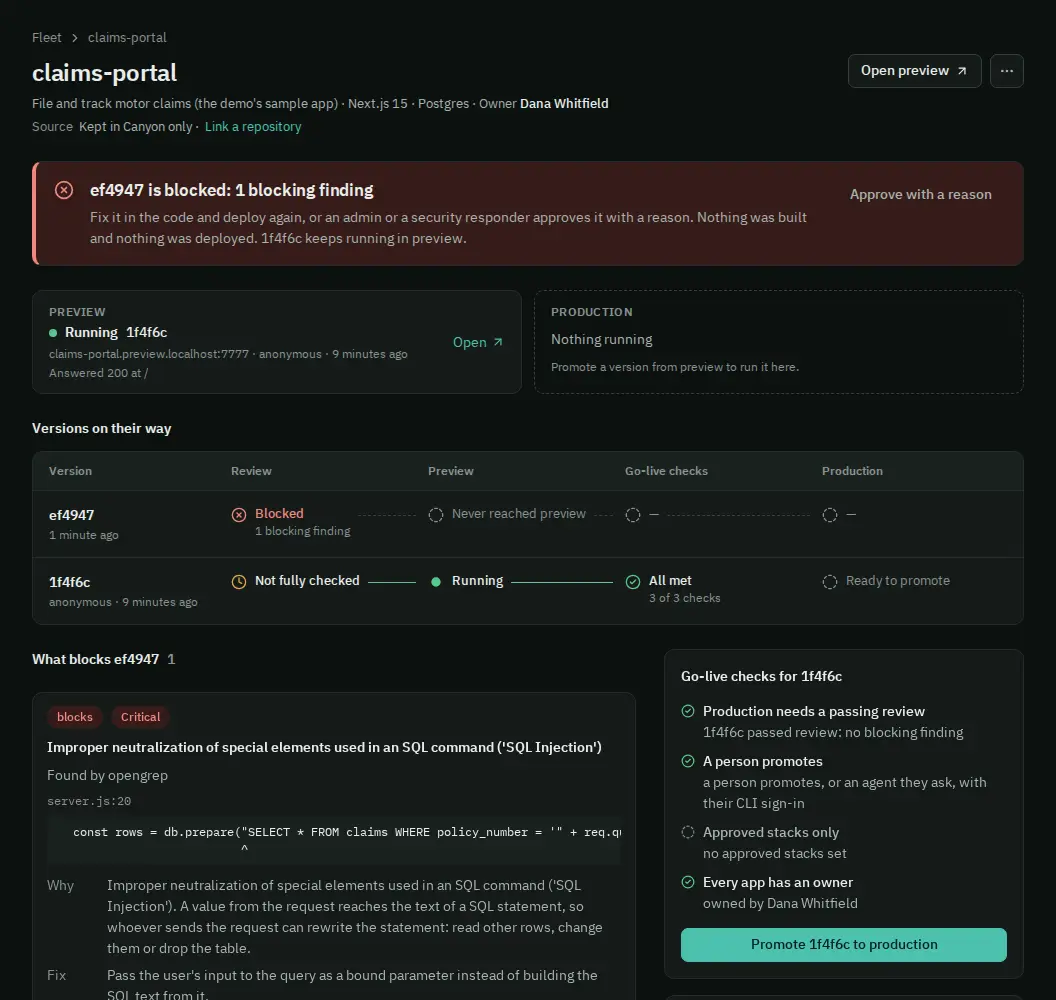
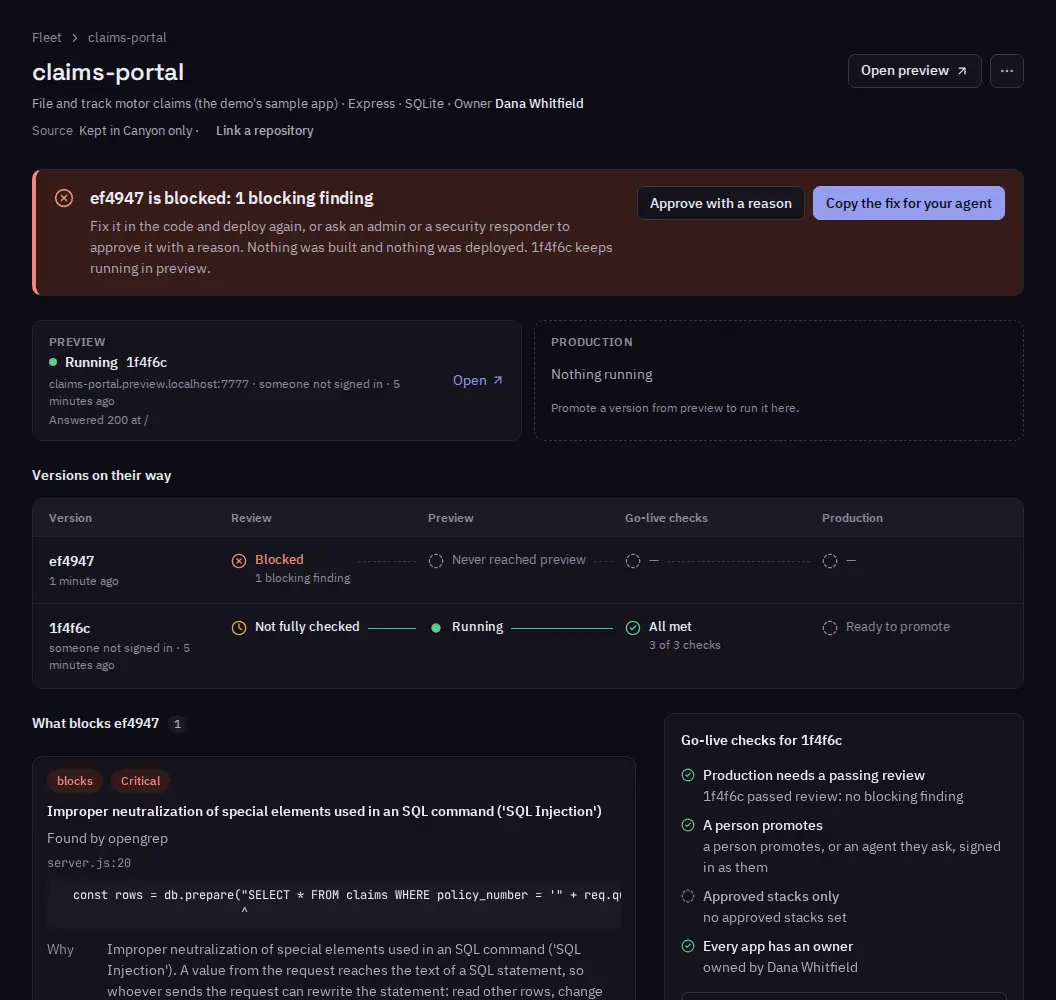
docs: the dashboard screenshots match v0.11.1 (#162)

diff --git a/docs/src/content/docs/org/dashboard.md b/docs/src/content/docs/org/dashboard.md
@@ -13,8 +13,8 @@ becomes a bar across the top with a menu button.
 
 The fleet is the list of every app in your org.
 
-<a class="dark:sl-hidden" href="/screens/fleet-light.webp"><img src="/screens/fleet-light.webp" alt="The fleet of the demo org Meridian: four counts, a Needs attention list with a leaked secret, two blocked apps and an app with no owner, and claims-portal's details panel open beside the list." width="1056" loading="lazy"></a>
-<a class="light:sl-hidden" href="/screens/fleet-dark.webp"><img src="/screens/fleet-dark.webp" alt="The fleet of the demo org Meridian: four counts, a Needs attention list with a leaked secret, two blocked apps and an app with no owner, and claims-portal's details panel open beside the list." width="1056" loading="lazy"></a>
+<a class="dark:sl-hidden" href="/screens/fleet-light.webp"><img src="/screens/fleet-light.webp" alt="The fleet of the demo org Meridian: four counts, a line saying to start with claims-portal, a Needs attention list with a leaked secret, a blocked app, and an app never reviewed and with no owner, and claims-portal's details panel open beside the list." width="1056" loading="lazy"></a>
+<a class="light:sl-hidden" href="/screens/fleet-dark.webp"><img src="/screens/fleet-dark.webp" alt="The fleet of the demo org Meridian: four counts, a line saying to start with claims-portal, a Needs attention list with a leaked secret, a blocked app, and an app never reviewed and with no owner, and claims-portal's details panel open beside the list." width="1056" loading="lazy"></a>
 
 An admin's counts and lists cover the whole org; a member's cover their own apps, and their list is
 called "Needs you" rather than "Needs attention". The list can say:
@@ -31,9 +31,10 @@ called "Needs you" rather than "Needs attention". The list can say:
 destination [refused on its outbound allowlist](/org/outbound/#on-an-apps-page) that nobody has allowed or dismissed.
 
 **The list.** Where people sign in, an Access column says who can open each app, and a filter picks
-by it. "Filter" also has "Only apps that need you". Security responders and admins see **Stop
-production** on each app's row, and **Lift the hold** on an app whose production is held
-([Stopping production](/org/who-can-do-what/#stopping-production)).
+by it. "Filter" also has "Only apps that need you". In an app's details
+panel, security responders and admins can stop its production, and admins can lift its hold
+([Stopping production](/org/who-can-do-what/#stopping-production)). For an app outside their teams, a
+responder does either on the app's row.
 
 **The details panel.** Click a row to open its panel beside the list. When something blocks the app,
 "Copy for your agent" copies the problem for a coding agent. "All activity" opens its audit trail. On
@@ -45,11 +46,12 @@ from the last 24 hours first. "Open audit" opens the [audit trail](/org/audit-tr
 
 ## An app's page
 
-<a class="dark:sl-hidden" href="/screens/app-blocked-light.webp"><img src="/screens/app-blocked-light.webp" alt="claims-portal's page: the newest version is blocked by one finding, the previous version keeps running in preview, and the go-live checks for that version all pass." width="1056" loading="lazy"></a>
-<a class="light:sl-hidden" href="/screens/app-blocked-dark.webp"><img src="/screens/app-blocked-dark.webp" alt="claims-portal's page: the newest version is blocked by one finding, the previous version keeps running in preview, and the go-live checks for that version all pass." width="1056" loading="lazy"></a>
+<a class="dark:sl-hidden" href="/screens/app-blocked-light.webp"><img src="/screens/app-blocked-light.webp" alt="claims-portal's page: its headline says the newest version is blocked by one finding, with the fix to copy for an agent. The previous version keeps running in preview, and its three go-live checks are met." width="1056" loading="lazy"></a>
+<a class="light:sl-hidden" href="/screens/app-blocked-dark.webp"><img src="/screens/app-blocked-dark.webp" alt="claims-portal's page: its headline says the newest version is blocked by one finding, with the fix to copy for an agent. The previous version keeps running in preview, and its three go-live checks are met." width="1056" loading="lazy"></a>
 
 The "⋯" button ("More actions") holds "Take preview offline", "Take production offline" and, for
-the app's owners and admins, "Rename…" and "Delete app…". Further down the page:
+the app's owners and admins, "Rename…" and "Delete app…". For security responders and admins it also
+holds "Stop production". Further down the page:
 
 - **Review**: what blocks comes first. What doesn't block waits behind "Doesn't block". See
   [Fix or approve a finding](/build/fix-or-approve/).

diff --git a/docs/src/content/docs/org/who-can-do-what.md b/docs/src/content/docs/org/who-can-do-what.md
@@ -1,10 +1,10 @@
 ---
 title: Who can do what
-description: Every action in Canyon, and who may take it, from a member the app isn't shared with to an admin, a security responder and a coding agent using someone's CLI sign-in.
+description: Every action in Canyon, and who may take it, from a member the app isn't shared with to an admin, a security responder and a coding agent signed in as someone.
 ---
 
 What someone may do with an app depends on their role on Canyon and their level on that app, and a
-coding agent counts as the person whose CLI sign-in it uses. [The table](#what-each-person-can-do-with-an-app)
+coding agent counts as the person it is signed in as. [The table](#what-each-person-can-do-with-an-app)
 has every action; Canyon's own settings and what only the dashboard can do follow it.
 
 ## How Canyon decides
@@ -16,12 +16,12 @@ Canyon decides what someone may do from two things:
 - **Their level on each app:** owner, contributor, read-only, or no access at all. An app's owners
   set it when they share the app ([Share an app](/build/share/)).
 
-A coding agent never has access of its own. It works through a person's CLI sign-in, and Canyon
-treats it as that person.
+A coding agent never has access of its own. It works through a person's CLI sign-in on a laptop, or
+the connection they allowed it in the cloud, and Canyon treats it as that person.
 
 ```mermaid title="Who may do what: a role on Canyon, a level on each app, and an agent that counts as its person"
 flowchart TD
-  agent["A coding agent<br>on your CLI sign-in"]
+  agent["A coding agent<br>signed in as you"]
   person["You, signed in"]:::person
   role["Your role on Canyon<br>member, responder,<br>admin"]
   level["Your level on the app<br>owner, contributor,<br>read-only, no access"]
@@ -108,7 +108,7 @@ never from the CLI, so a coding agent can't do them.
 
 A **blocking finding** is one whose rule blocks it, before preview or before production. Only an
 admin or a security responder approves one, signed in to the dashboard. Nobody approves a blocking
-finding of a deploy they started, including one a coding agent started with their CLI sign-in. An
+finding of a deploy they started, including one a coding agent started, signed in as them. An
 approval an admin or a responder makes on someone else's deploy never counts for one they started
 themselves.
 
@@ -130,7 +130,9 @@ sign-in can do it too, since it counts as them; Canyon's own automated steps, an
 deployment platform uses under [hand-off](/self-host/hand-off/), can't. There are three ways:
 
 - from the CLI: `canyon undeploy --app <app> --env prod --hold --reason "…"`;
-- in the dashboard: **Stop production** on the app's row in the fleet, the dashboard's list of apps;
+- in the dashboard: **Stop production** in the app's details panel in the fleet, the dashboard's list
+  of apps, or on the app's page, under **⋯**. For an app outside a responder's teams, it is on the
+  app's row in the fleet. Where nothing runs in production, it reads **Hold production**;
 - through the API: `POST /api/v1/projects/<app>/envs/prod/hold`, with a CLI sign-in
   ([Calling Canyon's API](/reference/api/)).
 
@@ -143,8 +145,9 @@ your platform to remove it, and the app lets nobody in within about a minute, ev
 platform's pods are still running (see
 [When an environment is stopped](/self-host/hand-off/#when-an-environment-is-stopped)).
 
-A responder or an admin lifts the hold with **Lift the hold** in the dashboard's fleet (on the app's row, or in its details pane),
-only, and can start the held version again. Nobody on the app's team (an owner or a contributor)
+A responder or an admin lifts the hold with **Lift the hold**, only in the dashboard: on the app's
+page, or in the fleet, where an admin finds it in the app's details panel and a responder on the
+app's row. They can start the held version again. Nobody on the app's team (an owner or a contributor)
 lifts its hold unless they are an admin, nor does anyone who was on the team when it was held.
 
 ### Claiming an app nobody owns

diff --git a/docs/src/content/docs/concepts/how-canyon-works.md b/docs/src/content/docs/concepts/how-canyon-works.md
@@ -200,8 +200,8 @@ flowchart TD
 
 - **Production runs the image preview ran**, with production's own secrets. Nothing is rebuilt.
 - **The version must be running in preview**, and two rules stand in front of it, both blocking by
-  default: its review passed, and a person promotes it, or an agent they ask with their own CLI
-  sign-in.
+  default: its review passed, and a person promotes it, or an agent they ask, signed in as
+  them.
 - **An org can require a person's approval in the dashboard** for every promotion. Then
   `canyon deploy --env prod` ends `WAITING FOR APPROVAL` with a link, and a person on the app's
   team approves or denies it there.

diff --git a/docs/src/content/docs/rules/prod.human-approval.md b/docs/src/content/docs/rules/prod.human-approval.md
@@ -9,8 +9,8 @@ description: "A promotion to production comes from a person's sign-in, or from a
 ## What it finds
 
 Who is promoting. When you run `canyon deploy --env prod`, the rule passes when the request comes
-from a person's sign-in, rather than from an automated caller. A coding agent using your CLI
-sign-in counts as you. On a Canyon without sign-in, as
+from a person's sign-in, rather than from an automated caller. A coding agent signed in as
+you counts as you. On a Canyon without sign-in, as
 in the laptop demo, every request counts as a person, so the rule always passes. Its line in the
 go-live checks says what that covers:
 

diff --git a/docs/src/content/docs/build/fix-or-approve.md b/docs/src/content/docs/build/fix-or-approve.md
@@ -160,7 +160,7 @@ marks the lines left out. The demo runs without sign-in, so the approver reads `
 ```
 
 - **Who can approve:** a Canyon admin or a security responder, on any app. Never on a deploy they
-  started themselves, including one a coding agent started with their CLI sign-in. The app's owners
+  started themselves, including one a coding agent started, signed in as them. The app's owners
   and contributors can't approve a blocking finding; the page says who can instead. See
   [Who can do what](/org/who-can-do-what/).
 - **The CLI has no approve command.** A blocking finding is approved on the app's page, in a
